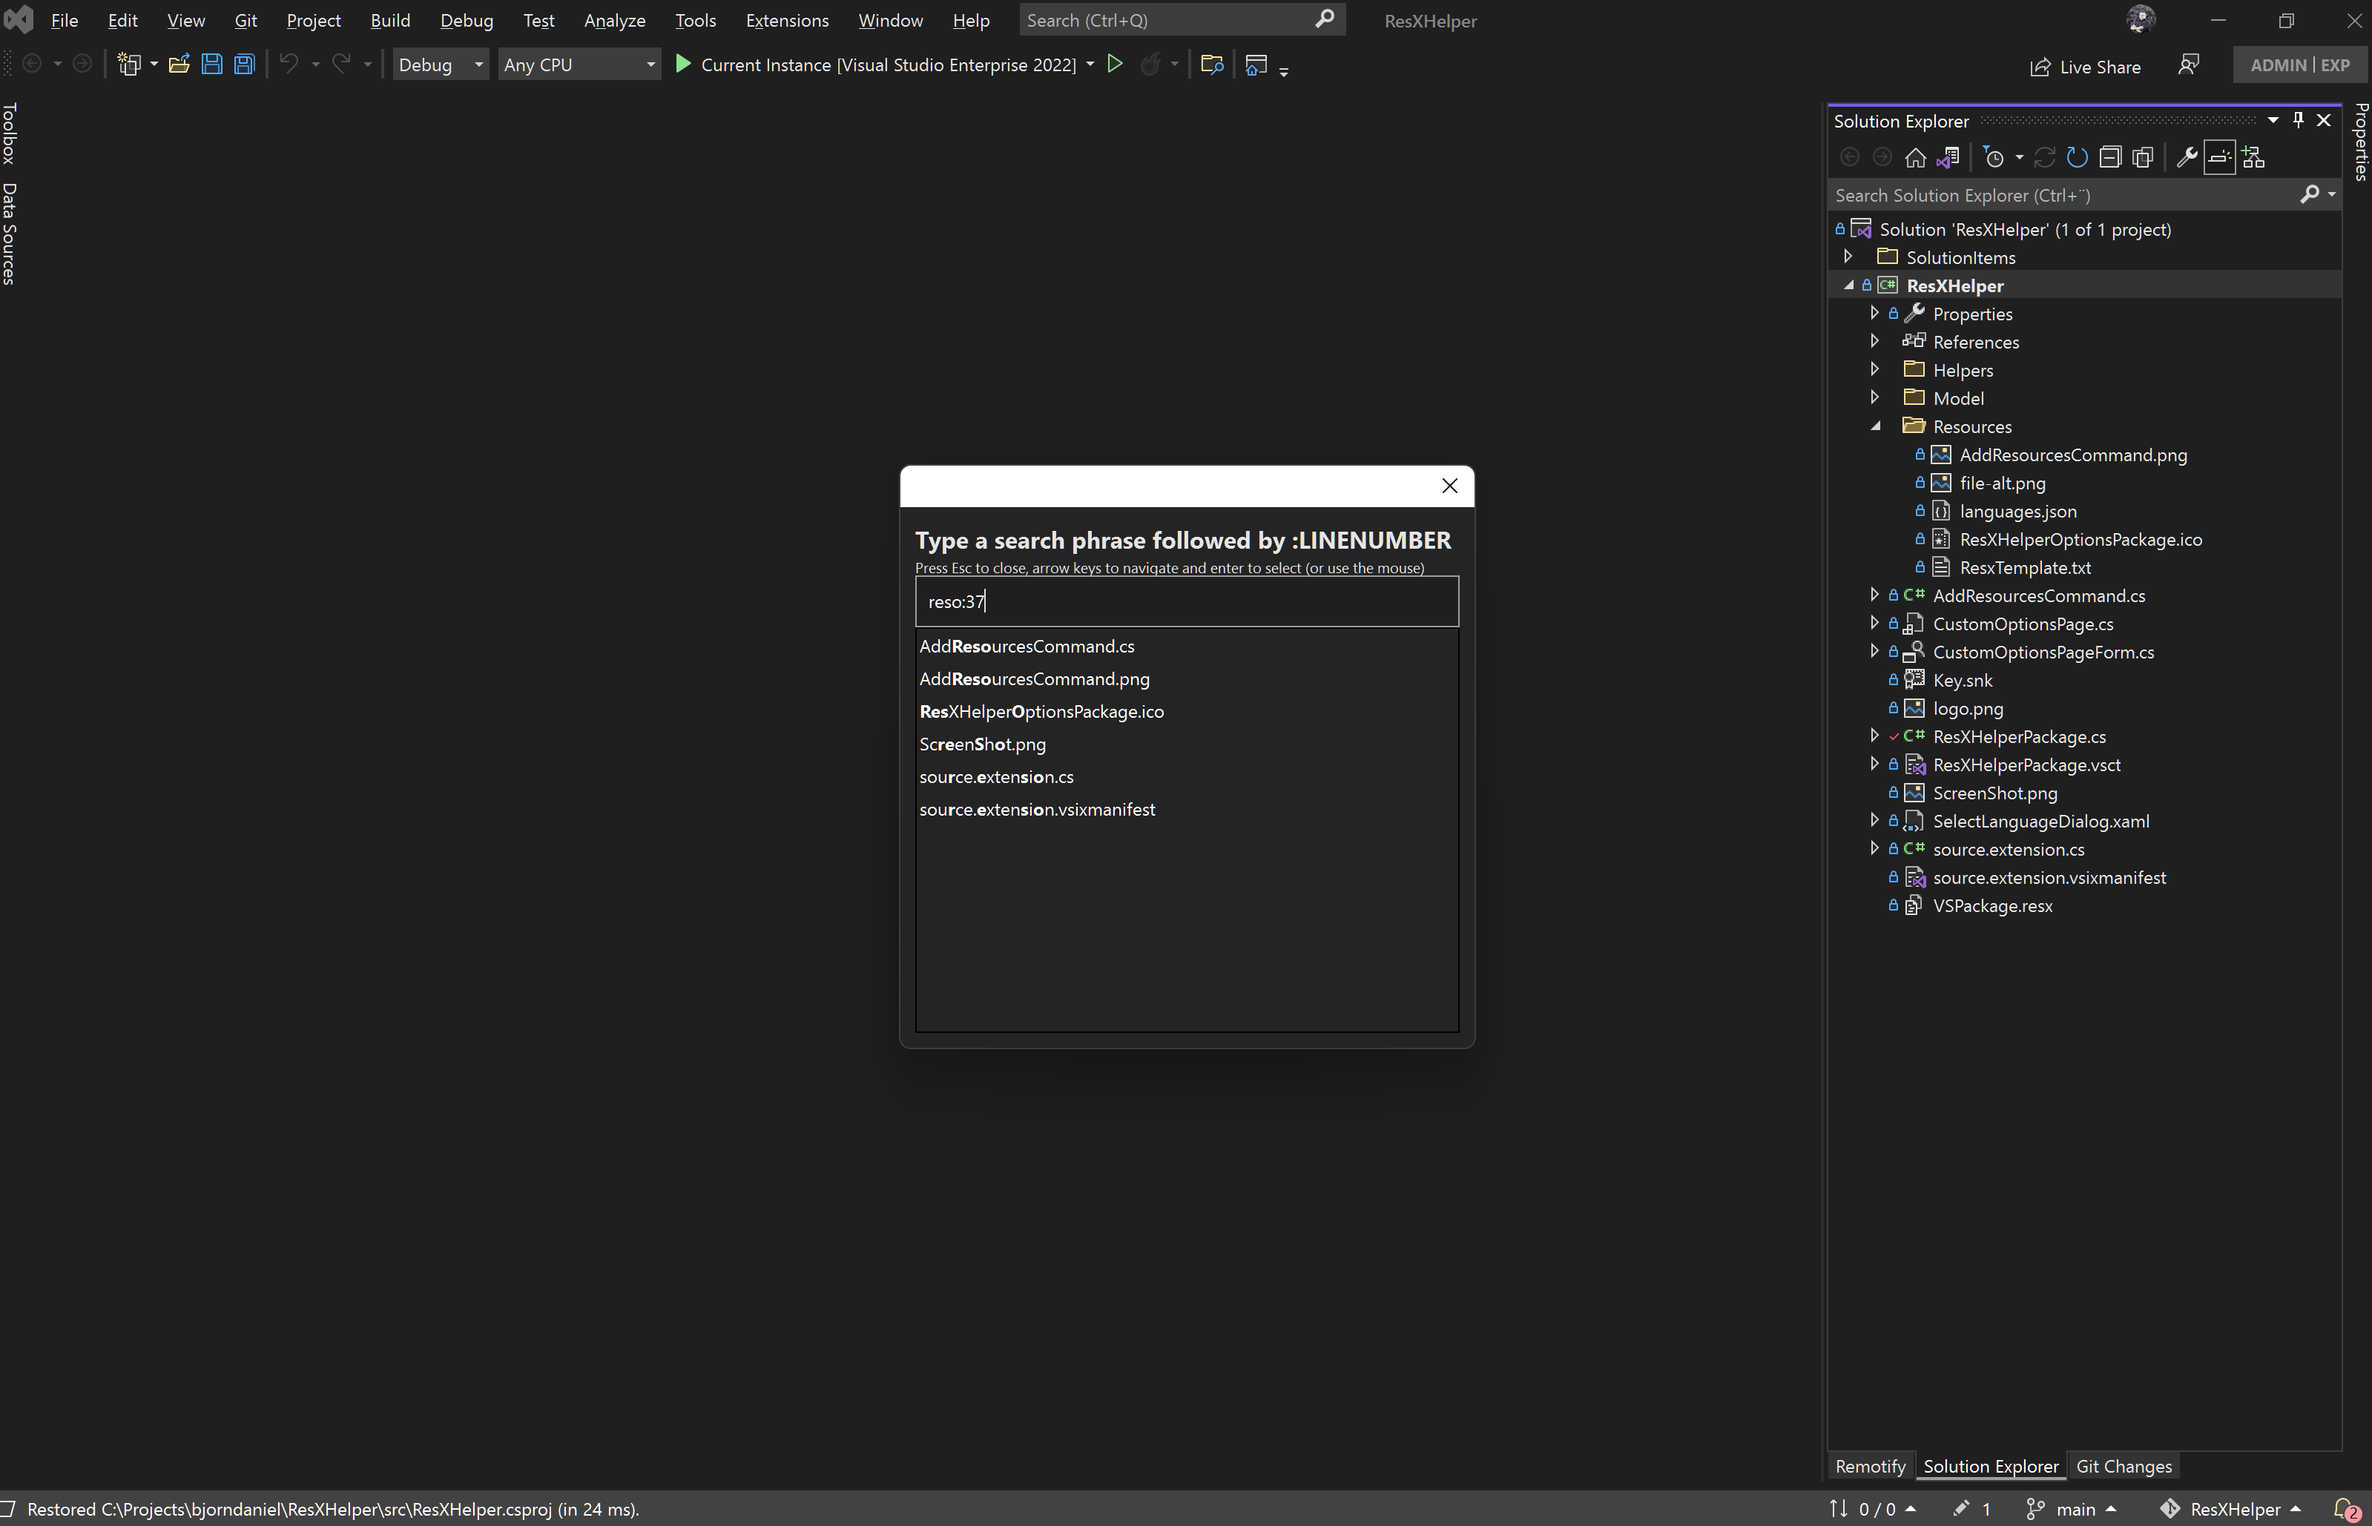
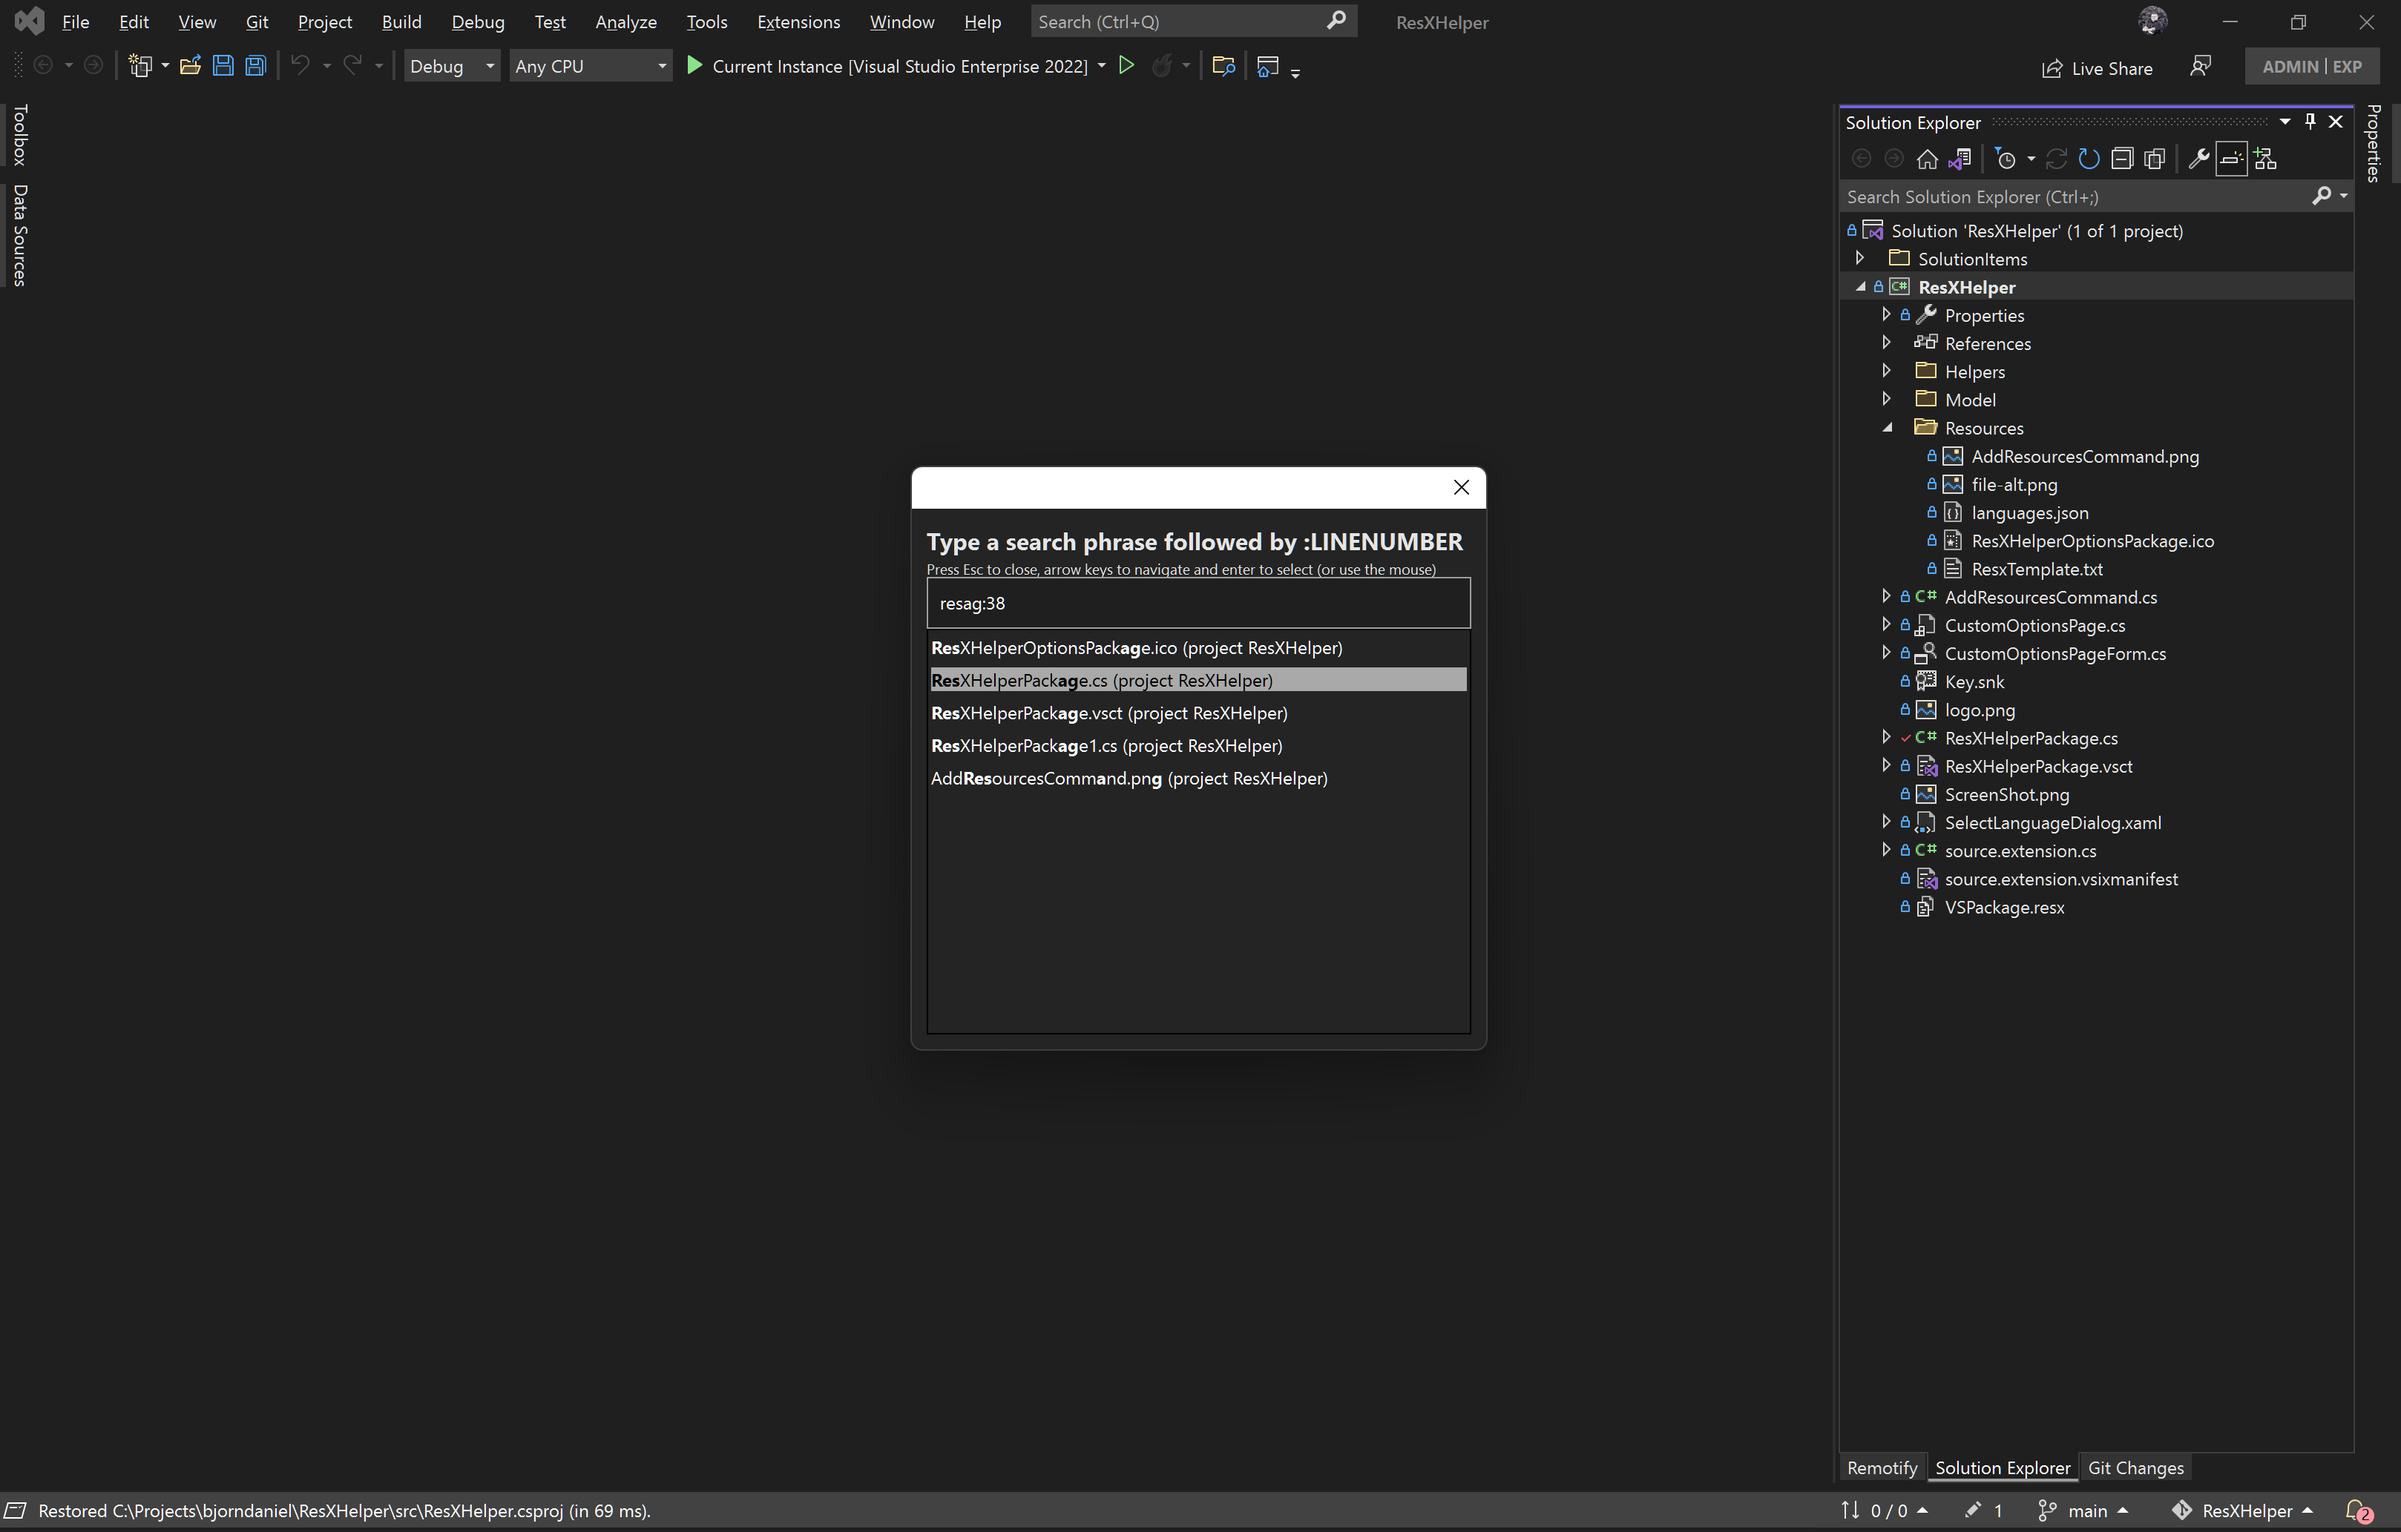
#3 Added project name to results

diff --git a/src/ToolWindows/GoToFileOnLineSearchWindow.xaml.cs b/src/ToolWindows/GoToFileOnLineSearchWindow.xaml.cs
@@ -70,6 +70,7 @@ namespace GoToFileOnLine
                     {
                         Name = item.Name!,
                         FullPath = item.Properties?.Item("FullPath")?.Value.ToString(),
+                        ProjectName = item.ContainingProject?.Name,
                     };
 
                     if (!string.IsNullOrWhiteSpace(cb.FullPath))
@@ -192,7 +193,8 @@ namespace GoToFileOnLine
                     FullPath = _.FullPath,
                     Name = _.Name,
                     Score = score,
-                    Positions = positions
+                    Positions = positions,
+                    ProjectName = _.ProjectName,
                 };
             });
             var counter = 0;
@@ -223,26 +225,30 @@ namespace GoToFileOnLine
         }
 
         [System.Diagnostics.CodeAnalysis.SuppressMessage("Usage", "VSTHRD101:Avoid unsupported async delegates", Justification = "<Pending>")]
-        private void AddItem(ComboBoxItemModel p, bool select = false)
+        private void AddItem(ComboBoxItemModel item, bool select = false)
         {
-            var block = new TextBlock();
+            var block = new TextBlock
+            {
+                TextWrapping = TextWrapping.NoWrap,
+                TextTrimming = TextTrimming.CharacterEllipsis
+            };
             block.Foreground = _defaultTextColor;
             // Add the text
-            if (p.Positions.Any())
+
+            for (int i = 0; i < item.Name.Length; i++)
             {
-                for (int i = 0; i < p.Name.Length; i++)
+                if (item.Positions?.Contains(i) ?? false)
                 {
-                    if (p.Positions.Contains(i))
-                    {
-                        block.Inlines.Add(new Run(p.Name[i].ToString()) { FontWeight = FontWeights.Bold });
-                    }
-                    else
-                    {
-                        block.Inlines.Add(p.Name[i].ToString());
-                    }
+                    block.Inlines.Add(new Run(item.Name[i].ToString()) { FontWeight = FontWeights.Bold });
+                }
+                else
+                {
+                    block.Inlines.Add(item.Name[i].ToString());
                 }
             }
-            block.Tag = p;
+            block.Inlines.Add($" (project {item.ProjectName})");
+
+            block.Tag = item;
 
             // A little style...
             block.Margin = new Thickness(2, 3, 2, 3);
@@ -256,20 +262,32 @@ namespace GoToFileOnLine
 
             block.MouseEnter += (sender, e) =>
             {
+                foreach (var item in ResultStack.Children)
+                {
+                    ((TextBlock)item).Background = Brushes.Transparent;
+                    ((TextBlock)item).Foreground = _defaultTextColor;
+                }
                 var b = sender as TextBlock;
                 b.Background = Brushes.DarkGray;
+                block.Foreground = Brushes.Black;
                 _selectedItem = b.Tag as ComboBoxItemModel;
             };
 
             block.MouseLeave += (sender, e) =>
             {
+                foreach (var item in ResultStack.Children)
+                {
+                    ((TextBlock)item).Background = Brushes.Transparent;
+                    ((TextBlock)item).Foreground = _defaultTextColor;
+                }
                 var b = sender as TextBlock;
                 b.Background = Brushes.Transparent;
+                b.Background = _defaultTextColor;
                 _selectedItem = null;
             };
             if (select)
             {
-                _selectedItem = p;
+                _selectedItem = item;
                 block.Background = Brushes.DarkGray;
                 block.Foreground = Brushes.Black;
             }
@@ -299,7 +317,7 @@ namespace GoToFileOnLine
                     var lines = File.ReadAllLines(path);
                     if (lineText?.ToLower() == "e")
                     {
-                        viewAdapter.SetSelection(lines.Count() -1, 0, lines.Count()-1, lines[lines.Count()-1].Length);
+                        viewAdapter.SetSelection(lines.Count() - 1, 0, lines.Count() - 1, lines[lines.Count() - 1].Length);
                     }
                     else if (lineText?.ToLower() == "s")
                     {

diff --git a/src/Models/ComboBoxItemModel.cs b/src/Models/ComboBoxItemModel.cs
@@ -9,5 +9,6 @@ namespace GoToFileOnLine.Models
         public int Index { get; set; }
         public int Score { get; set; }
         public List<int> Positions { get; set; } = new List<int>();
+        public string ProjectName { get; set; } = string.Empty;
     }
 }

diff --git a/README.md b/README.md
@@ -17,3 +17,4 @@ Using the mouse or arrow keys a search result can be selected. This file will th
 ### 1.0
 
 Initial release
+
